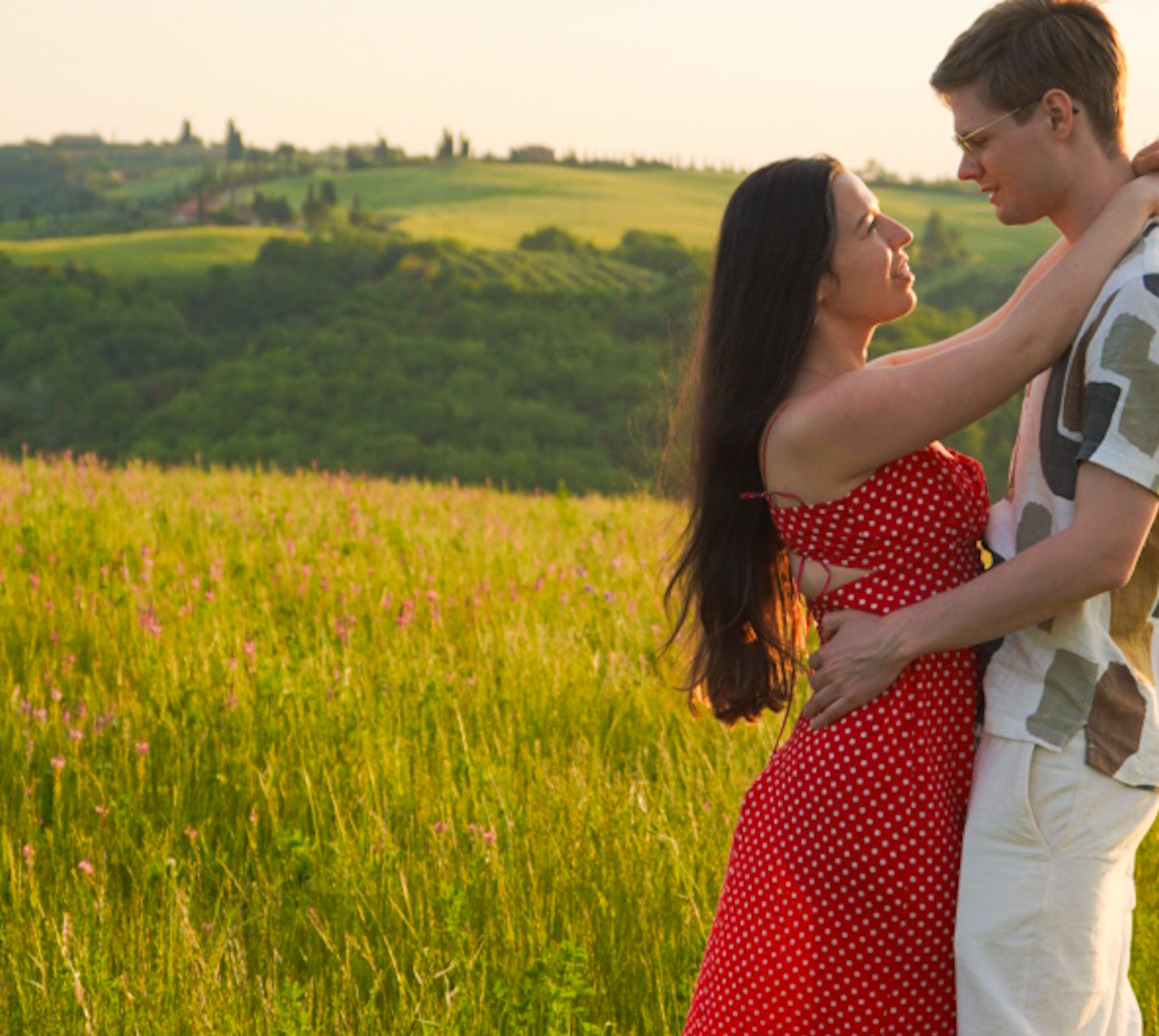
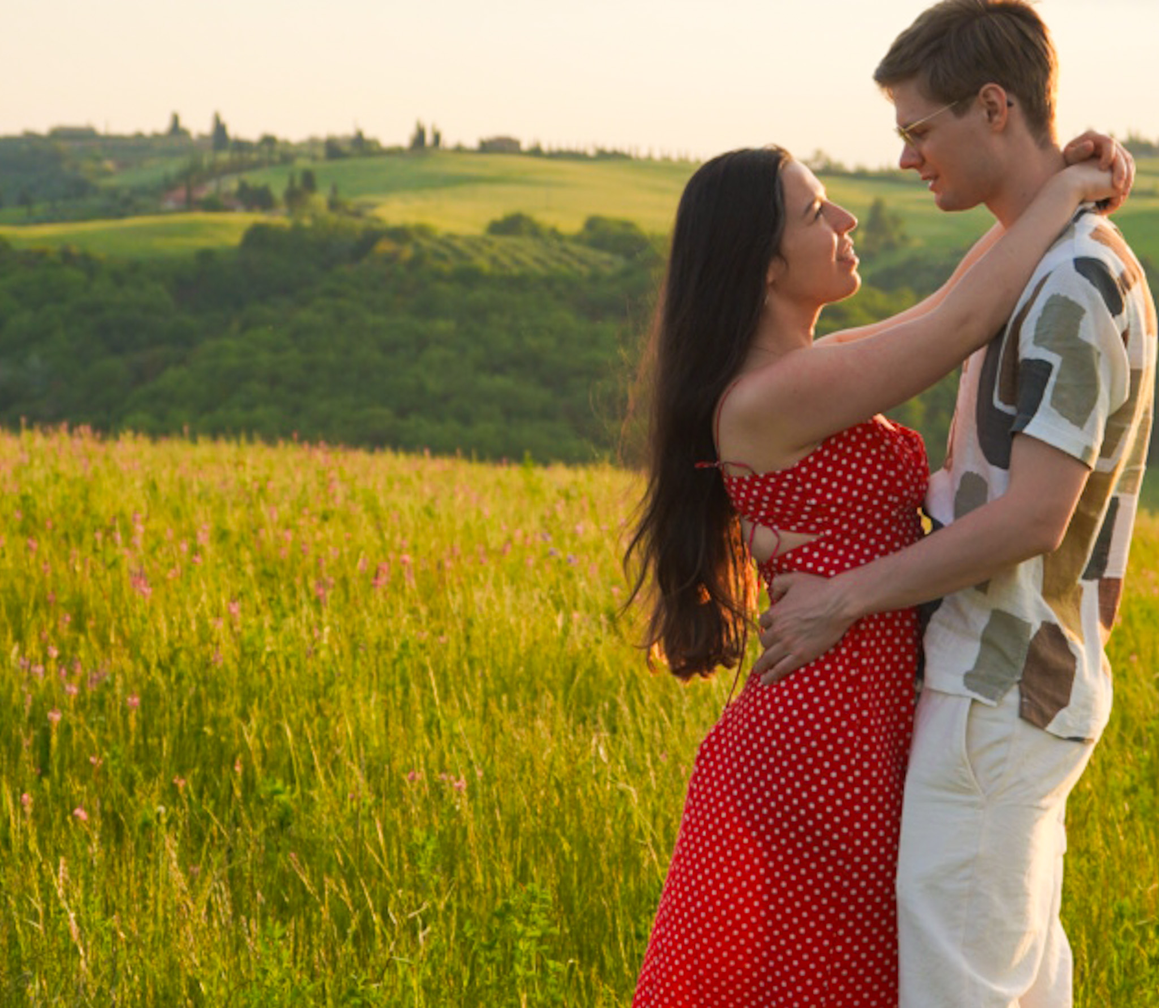
repositioned everything nicely

diff --git a/index.html b/index.html
@@ -2494,7 +2494,7 @@
 
 
 
-<img alt="" data-src="./index_files/DSC08319.jpg" data-image="./index_files/DSC08319.jpg" data-image-dimensions="4000x6000" data-image-focal-point="0.95,0.4" data-load="false" src="./index_files/DSC08319.jpg" width="4000" height="6000" sizes="(max-width: 799px) 200vw, 100vw" style="display:block;object-position: 95.0% 40.0%" srcset="./index_files/DSC08319.jpg?format=100w 100w, ./index_files/DSC08319.jpg?format=300w 300w, ./index_files/DSC08319.jpg?format=500w 500w, ./index_files/DSC08319.jpg?format=750w 750w, ./index_files/DSC08319.jpg?format=1000w 1000w, ./index_files/DSC08319.jpg?format=1500w 1500w, ./index_files/DSC08319.jpg?format=2500w 2500w" fetchpriority="low" loading="lazy" decoding="async" data-loader="sqs">
+<img alt="" data-src="./index_files/DSC08319.jpg" data-image="./index_files/DSC08319.jpg" data-image-dimensions="4000x6000" data-image-focal-point="0.0,0.0" data-load="false" src="./index_files/DSC08319.jpg" width="4000" height="6000" sizes="(max-width: 799px) 200vw, 100vw" style="display:block;object-position: 95.0% 0.0%" srcset="./index_files/DSC08319.jpg?format=100w 100w, ./index_files/DSC08319.jpg?format=300w 300w, ./index_files/DSC08319.jpg?format=500w 500w, ./index_files/DSC08319.jpg?format=750w 750w, ./index_files/DSC08319.jpg?format=1000w 1000w, ./index_files/DSC08319.jpg?format=1500w 1500w, ./index_files/DSC08319.jpg?format=2500w 2500w" fetchpriority="low" loading="lazy" decoding="async" data-loader="sqs">
 
 
 
@@ -3661,7 +3661,7 @@
 
 
 
-<img alt="" data-src="./index_files/DSC08858.jpg" data-image="./index_files/DSC08858.jpg" data-image-dimensions="4000x6000" data-image-focal-point="0.0,0.55" data-load="false" src="./index_files/DSC08858.jpg" width="4000" height="6000" sizes="(max-width: 799px) 200vw, 100vw" style="display:block;object-position: 0.00% 55.00%" srcset="./index_files/DSC08858.jpg?format=100w 100w, ./index_files/DSC08858.jpg?format=300w 300w, ./index_files/DSC08858.jpg?format=500w 500w, ./index_files/DSC08858.jpg?format=750w 750w, ./index_files/DSC08858.jpg?format=1000w 1000w, ./index_files/DSC08858.jpg?format=1500w 1500w, ./index_files/DSC08858.jpg?format=2500w 2500w" fetchpriority="low" loading="lazy" decoding="async" data-loader="sqs">
+<img alt="" data-src="./index_files/DSC08858.jpg" data-image="./index_files/DSC08858.jpg" data-image-dimensions="4000x6000" data-image-focal-point="0.0,0.0" data-load="false" src="./index_files/DSC08858.jpg" width="4000" height="6000" sizes="(max-width: 799px) 200vw, 100vw" style="display:block;object-position: 0.00% 30.00%" srcset="./index_files/DSC08858.jpg?format=100w 100w, ./index_files/DSC08858.jpg?format=300w 300w, ./index_files/DSC08858.jpg?format=500w 500w, ./index_files/DSC08858.jpg?format=750w 750w, ./index_files/DSC08858.jpg?format=1000w 1000w, ./index_files/DSC08858.jpg?format=1500w 1500w, ./index_files/DSC08858.jpg?format=2500w 2500w" fetchpriority="low" loading="lazy" decoding="async" data-loader="sqs">
 
 
 
